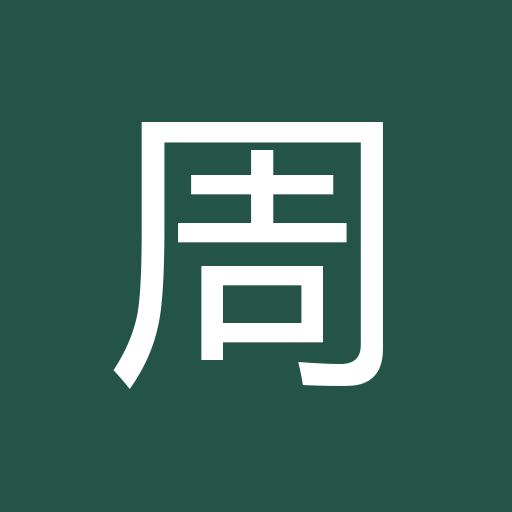
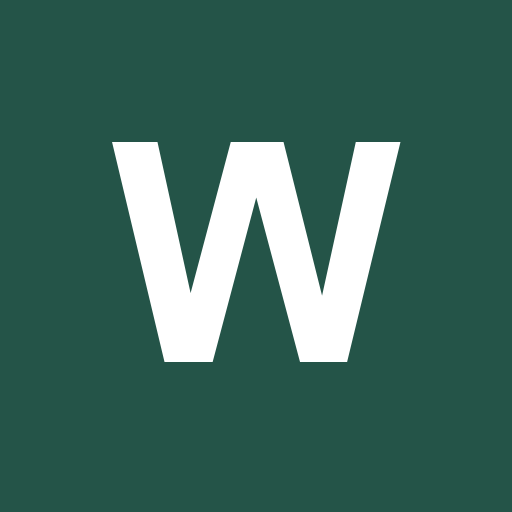
Configure Supabase project and rename app to Weekly Wallet

Changed region(s): [[0.2188, 0.2188, 0.7812, 0.7812]]

diff --git a/finance/index.html b/finance/index.html
@@ -1,3 +1,3 @@
-<!doctype html><html lang="zh-CN"><head><meta charset="utf-8"><meta name="viewport" content="width=device-width,initial-scale=1,viewport-fit=cover"><meta name="theme-color" content="#245448"><meta name="apple-mobile-web-app-capable" content="yes"><meta name="apple-mobile-web-app-title" content="周见"><title>周见 · 云端个人财务账本</title><link rel="stylesheet" href="./style.css"><link rel="manifest" href="./manifest.json"><link rel="icon" href="./icon.svg"><link rel="apple-touch-icon" href="./apple-touch-icon.png"></head><body><section id="auth-panel"><div class="auth-card"><span class="brand-icon">周</span><h1>周见 · 云端账本</h1><p>每天一笔，每周一见。<br>在手机与电脑登录同一邮箱，共享你的账本。</p><form id="login-form"><label>登录邮箱<input id="email" type="email" autocomplete="email" placeholder="你的邮箱" required></label><button class="btn primary" id="send-link" type="submit">发送登录链接</button></form><p id="auth-notice" role="status" aria-live="polite">使用你在数据库中添加的个人账号登录。</p><a href="/">← 返回博客</a></div></section><div id="wallet-root" hidden><aside class="sidebar"><a class="brand" href="#"><span class="brand-icon">周</span><span>周见<small>WEEKLY WALLET</small></span></a><p class="nav-label">我的财务空间</p><nav><button class="nav active" data-view="report"><span>▦</span> 每周报表</button><button class="nav" data-view="records"><span>≡</span> 收支明细</button><button class="nav" data-view="settings"><span>⚙</span> 偏好与备份</button></nav><div class="sidebar-note"><span>✳</span><h3>把日子记清楚</h3><p>每天一笔，每周一见。<br>让钱的去向，成为生活的方向。</p></div><div class="profile"><span class="avatar">我</span><div>个人账本<small>人民币 · 云端账本</small></div><span class="status-dot"></span></div></aside>
-<main><header><div class="breadcrumb">我的账本 <span>/</span> <b id="crumb">每周报表</b></div><div class="header-right"><span class="save-state">● 正在连接云端</span><button class="btn primary" id="add">＋ 记一笔</button></div></header><div class="content"><section class="heading"><div><div class="eyebrow">A LITTLE CLARITY, EVERY WEEK</div><h1 id="page-title">这一周，心中有数<span>✳</span></h1><p id="page-desc">用一份清晰的周报，看见收入、支出与生活的平衡。</p></div><button class="btn" id="export">↗ 导出周报</button></section><div class="demo-banner" id="sync-banner"><span id="sync-message">正在连接你的云端账本…</span><button id="login-again" hidden>重新登录</button><button id="sync-now">立即同步 ↻</button></div><div class="conflict-panel" id="conflict-panel" hidden><p id="conflict-message"></p><button class="btn" id="choose-cloud">采用云端版本</button><button class="btn primary" id="choose-local">保留此设备版本</button></div><section id="report-view"><div class="period-bar"><div class="week-switch"><button class="icon-btn" id="prev" aria-label="上一周">‹</button><strong id="week-label"></strong><button class="icon-btn" id="next" aria-label="下一周">›</button><button class="text-btn" id="this-week">本周</button></div><span id="week-no" class="muted"></span></div><div class="metrics"><article class="metric"><div>主动收入 <span class="metric-icon">↗</span></div><h2 id="active-total"></h2><p>工资、自由职业与劳动所得</p></article><article class="metric"><div>被动收入 <span class="metric-icon">✳</span></div><h2 id="passive-total"></h2><p>利息、分红与租金所得</p></article><article class="metric"><div>本周支出 <span class="metric-icon expense">↙</span></div><h2 id="expense-total"></h2><p id="expense-note"></p></article><article class="metric balance"><div>本周净结余 <span>↗</span></div><h2 id="balance-total"></h2><p id="balance-note"></p><div class="balance-pattern">◒</div></article></div><div class="charts"><article class="panel trend"><div class="panel-head"><div><h3>每天的收支节奏</h3><p>一周七天，收入与支出一目了然</p></div><div class="legend"><span class="active-key">主动</span><span class="passive-key">被动</span><span class="expense-key">支出</span></div></div><div id="chart" class="chart"></div></article><article class="panel categories"><div class="panel-head"><div><h3>钱都花在哪里</h3><p>本周支出构成</p></div><span>◴</span></div><div id="donut-area"></div><div id="category-list"></div></article></div><div class="insight"><span>✦</span><div><b>本周小结</b><p id="insight"></p></div><div class="budget-box"><small>周预算使用</small><strong id="budget-number"></strong><div class="budget-track"><i id="budget-fill"></i></div></div></div></section><section id="records-section" class="panel records"><div class="panel-head"><div><h3 id="records-title">本周收支明细 <span id="record-count"></span></h3><p>每一笔，都有迹可循</p></div><div class="filters"><input id="search" placeholder="搜索分类或备注" aria-label="搜索分类或备注"><select id="filter" aria-label="收支类型"><option value="all">全部类型</option><option value="active">主动收入</option><option value="passive">被动收入</option><option value="expense">支出</option></select></div></div><div class="table-wrap"><table><thead><tr><th>日期</th><th>分类 / 备注</th><th>类型</th><th>账户</th><th class="number">金额</th><th></th></tr></thead><tbody id="rows"></tbody></table></div><div class="table-footer"><span>金额以人民币（CNY）计</span><span id="filtered-count"></span></div></section><section id="settings-view" class="panel settings" hidden><h3>让账本适合你</h3><p>登录同一账号，手机与电脑共享一份账本。记录保存到云端数据库，本机保留待同步记录。</p><label>每周支出预算（元）<input id="budget-input" type="number" min="0" step="0.01"></label><button class="btn primary" id="save-budget">保存预算</button><hr><h3>数据备份</h3><p>JSON 备份可导入原型中的旧记录；导入将追加新记录，已有相同编号的记录会跳过。CSV 周报可在表格软件中整理。</p><div class="backup-actions"><button class="btn" id="backup">导出完整备份</button><button class="btn" id="import">导入备份</button><input id="import-file" type="file" accept="application/json,.json" hidden></div><hr><h3>在 iPhone 上使用</h3><p>在 Safari 中打开网站，点击“分享”，选择“添加到主屏幕”，即可像应用一样打开。登录同一账号即可同步。网络断开时，已打开的页面可继续记账，恢复网络后自动上传。</p><hr><button class="text-btn" id="sign-out">退出登录</button></section><footer>周见 <span>·</span> 好好记账，好好生活。<span class="footer-right">周一开始 · 自然周报表</span></footer></div></main>
+<!doctype html><html lang="zh-CN"><head><meta charset="utf-8"><meta name="viewport" content="width=device-width,initial-scale=1,viewport-fit=cover"><meta name="theme-color" content="#245448"><meta name="apple-mobile-web-app-capable" content="yes"><meta name="apple-mobile-web-app-title" content="Weekly Wallet"><title>Weekly Wallet · 云端个人财务账本</title><link rel="stylesheet" href="./style.css"><link rel="manifest" href="./manifest.json"><link rel="icon" href="./icon.svg"><link rel="apple-touch-icon" href="./apple-touch-icon.png"></head><body><section id="auth-panel"><div class="auth-card"><span class="brand-icon">W</span><h1>Weekly Wallet · 云端账本</h1><p>每天一笔，每周一见。<br>在手机与电脑登录同一邮箱，共享你的账本。</p><form id="login-form"><label>登录邮箱<input id="email" type="email" autocomplete="email" placeholder="你的邮箱" required></label><button class="btn primary" id="send-link" type="submit">发送登录链接</button></form><p id="auth-notice" role="status" aria-live="polite">使用你在数据库中添加的个人账号登录。</p><a href="/">← 返回博客</a></div></section><div id="wallet-root" hidden><aside class="sidebar"><a class="brand" href="#"><span class="brand-icon">W</span><span>Weekly Wallet<small>WEEKLY WALLET</small></span></a><p class="nav-label">我的财务空间</p><nav><button class="nav active" data-view="report"><span>▦</span> 每周报表</button><button class="nav" data-view="records"><span>≡</span> 收支明细</button><button class="nav" data-view="settings"><span>⚙</span> 偏好与备份</button></nav><div class="sidebar-note"><span>✳</span><h3>把日子记清楚</h3><p>每天一笔，每周一见。<br>让钱的去向，成为生活的方向。</p></div><div class="profile"><span class="avatar">我</span><div>个人账本<small>人民币 · 云端账本</small></div><span class="status-dot"></span></div></aside>
+<main><header><div class="breadcrumb">我的账本 <span>/</span> <b id="crumb">每周报表</b></div><div class="header-right"><span class="save-state">● 正在连接云端</span><button class="btn primary" id="add">＋ 记一笔</button></div></header><div class="content"><section class="heading"><div><div class="eyebrow">A LITTLE CLARITY, EVERY WEEK</div><h1 id="page-title">这一周，心中有数<span>✳</span></h1><p id="page-desc">用一份清晰的周报，看见收入、支出与生活的平衡。</p></div><button class="btn" id="export">↗ 导出周报</button></section><div class="demo-banner" id="sync-banner"><span id="sync-message">正在连接你的云端账本…</span><button id="login-again" hidden>重新登录</button><button id="sync-now">立即同步 ↻</button></div><div class="conflict-panel" id="conflict-panel" hidden><p id="conflict-message"></p><button class="btn" id="choose-cloud">采用云端版本</button><button class="btn primary" id="choose-local">保留此设备版本</button></div><section id="report-view"><div class="period-bar"><div class="week-switch"><button class="icon-btn" id="prev" aria-label="上一周">‹</button><strong id="week-label"></strong><button class="icon-btn" id="next" aria-label="下一周">›</button><button class="text-btn" id="this-week">本周</button></div><span id="week-no" class="muted"></span></div><div class="metrics"><article class="metric"><div>主动收入 <span class="metric-icon">↗</span></div><h2 id="active-total"></h2><p>工资、自由职业与劳动所得</p></article><article class="metric"><div>被动收入 <span class="metric-icon">✳</span></div><h2 id="passive-total"></h2><p>利息、分红与租金所得</p></article><article class="metric"><div>本周支出 <span class="metric-icon expense">↙</span></div><h2 id="expense-total"></h2><p id="expense-note"></p></article><article class="metric balance"><div>本周净结余 <span>↗</span></div><h2 id="balance-total"></h2><p id="balance-note"></p><div class="balance-pattern">◒</div></article></div><div class="charts"><article class="panel trend"><div class="panel-head"><div><h3>每天的收支节奏</h3><p>一周七天，收入与支出一目了然</p></div><div class="legend"><span class="active-key">主动</span><span class="passive-key">被动</span><span class="expense-key">支出</span></div></div><div id="chart" class="chart"></div></article><article class="panel categories"><div class="panel-head"><div><h3>钱都花在哪里</h3><p>本周支出构成</p></div><span>◴</span></div><div id="donut-area"></div><div id="category-list"></div></article></div><div class="insight"><span>✦</span><div><b>本周小结</b><p id="insight"></p></div><div class="budget-box"><small>周预算使用</small><strong id="budget-number"></strong><div class="budget-track"><i id="budget-fill"></i></div></div></div></section><section id="records-section" class="panel records"><div class="panel-head"><div><h3 id="records-title">本周收支明细 <span id="record-count"></span></h3><p>每一笔，都有迹可循</p></div><div class="filters"><input id="search" placeholder="搜索分类或备注" aria-label="搜索分类或备注"><select id="filter" aria-label="收支类型"><option value="all">全部类型</option><option value="active">主动收入</option><option value="passive">被动收入</option><option value="expense">支出</option></select></div></div><div class="table-wrap"><table><thead><tr><th>日期</th><th>分类 / 备注</th><th>类型</th><th>账户</th><th class="number">金额</th><th></th></tr></thead><tbody id="rows"></tbody></table></div><div class="table-footer"><span>金额以人民币（CNY）计</span><span id="filtered-count"></span></div></section><section id="settings-view" class="panel settings" hidden><h3>让账本适合你</h3><p>登录同一账号，手机与电脑共享一份账本。记录保存到云端数据库，本机保留待同步记录。</p><label>每周支出预算（元）<input id="budget-input" type="number" min="0" step="0.01"></label><button class="btn primary" id="save-budget">保存预算</button><hr><h3>数据备份</h3><p>JSON 备份可导入原型中的旧记录；导入将追加新记录，已有相同编号的记录会跳过。CSV 周报可在表格软件中整理。</p><div class="backup-actions"><button class="btn" id="backup">导出完整备份</button><button class="btn" id="import">导入备份</button><input id="import-file" type="file" accept="application/json,.json" hidden></div><hr><h3>在 iPhone 上使用</h3><p>在 Safari 中打开网站，点击“分享”，选择“添加到主屏幕”，即可像应用一样打开。登录同一账号即可同步。网络断开时，已打开的页面可继续记账，恢复网络后自动上传。</p><hr><button class="text-btn" id="sign-out">退出登录</button></section><footer>Weekly Wallet <span>·</span> 好好记账，好好生活。<span class="footer-right">周一开始 · 自然周报表</span></footer></div></main>
 <dialog id="entry-dialog"><form id="entry-form"><div class="modal-head"><div><small>让每一笔都有着落</small><h2 id="modal-title">记一笔</h2></div><button type="button" id="close-modal" class="icon-btn" aria-label="关闭">×</button></div><input type="hidden" id="entry-id"><div class="type-tabs"><button type="button" data-type="expense" class="selected">支出</button><button type="button" data-type="active">主动收入</button><button type="button" data-type="passive">被动收入</button></div><label>金额（元）<input id="amount" class="amount-input" type="number" min="0.01" max="999999999" step="0.01" placeholder="0.00" required></label><div class="form-grid"><label>日期<input id="date" type="date" required></label><label>分类<select id="category"></select></label></div><label>账户<select id="account"><option>微信钱包</option><option>支付宝</option><option>银行卡</option><option>现金</option><option>其他</option></select></label><label>备注<input id="note" maxlength="120" placeholder="这笔钱的故事（选填）"></label><button class="btn primary submit" type="submit">保存这笔记录</button><p class="form-note">联网时自动存入数据库 · 断网记录等待同步</p></form></dialog><div id="toast" role="status" aria-live="polite"></div></div><script src="./config.js"></script><script src="https://cdn.jsdelivr.net/npm/@supabase/supabase-js@2/dist/umd/supabase.js"></script><script src="./auth.js"></script></body></html>

diff --git a/finance/wallet.js b/finance/wallet.js
@@ -53,10 +53,10 @@ document.querySelectorAll('.nav').forEach(b=>b.onclick=()=>setView(b.dataset.vie
 $('entry-form').onsubmit=async e=>{e.preventDefault();const cents=Math.round(Number($('amount').value)*100),date=$('date').value;if(!Number.isSafeInteger(cents)||cents<=0||cents>99999999900||!/^\d{4}-\d{2}-\d{2}$/.test(date)||dateStr(parseDate(date))!==date||date<'1900-01-01'||date>'2200-12-31'){toast('请填写有效的金额和日期');return}const id=$('entry-id').value||crypto.randomUUID(),record={id,date,type:entryType,cents,category:$('category').value,account:$('account').value,note:$('note').value.trim()},base=state.records.find(r=>r.id===id)||null;const button=$('entry-form').querySelector('[type=submit]');button.disabled=true;try{if(await enqueue({id:crypto.randomUUID(),kind:'upsert',record,base})){week=monday(date);$('entry-dialog').close();project();if(pending.length)toast('记录已保留在此设备，正在上传')}}finally{button.disabled=false}};
 $('rows').onclick=async e=>{const edit=e.target.dataset.edit,del=e.target.dataset.delete;if(edit)openEntry(edit);if(del&&confirm('删除这笔记录？删除将同步到其他设备。')){const base=state.records.find(r=>r.id===del);if(base)await enqueue({id:crypto.randomUUID(),kind:'delete',recordId:del,base})}};
 $('save-budget').onclick=async()=>{const n=Number($('budget-input').value);if(!Number.isFinite(n)||n<0||n>999999999){toast('请输入有效预算');return}await enqueue({id:crypto.randomUUID(),kind:'budget',budget:Math.round(n*100),baseBudget:state.budget})};
-$('export').onclick=()=>{const rs=weekRecords().sort((a,b)=>a.date.localeCompare(b.date)),t=totals(rs);const cell=s=>'"'+String(s).replaceAll('"','""')+'"';const rows=[['周见个人财务周报',week+' 至 '+shift(week,6)],['主动收入',fmt(t.active)],['被动收入',fmt(t.passive)],['总收入',fmt(t.active+t.passive)],['总支出',fmt(t.expense)],['净结余',fmt(t.active+t.passive-t.expense)],['待同步变更数',pending.length],[],['日期','类型','分类','账户','金额(元)','备注'],...rs.map(r=>[r.date,types[r.type],r.category,r.account,(r.type==='expense'?-r.cents:r.cents)/100,r.note])];download('\ufeff'+rows.map(r=>r.map(s=>cell(typeof s==='string'&&/^[=+@\-]/.test(s)?"'"+s:s)).join(',')).join('\r\n'),`周见周报_${week}.csv`,'text/csv;charset=utf-8');toast('周报已导出')};
-$('backup').onclick=()=>download(JSON.stringify({...state,version:1,pendingChanges:pending.length},null,2),'周见备份_'+today()+'.json','application/json');$('import').onclick=()=>$('import-file').click();
+$('export').onclick=()=>{const rs=weekRecords().sort((a,b)=>a.date.localeCompare(b.date)),t=totals(rs);const cell=s=>'"'+String(s).replaceAll('"','""')+'"';const rows=[['Weekly Wallet个人财务周报',week+' 至 '+shift(week,6)],['主动收入',fmt(t.active)],['被动收入',fmt(t.passive)],['总收入',fmt(t.active+t.passive)],['总支出',fmt(t.expense)],['净结余',fmt(t.active+t.passive-t.expense)],['待同步变更数',pending.length],[],['日期','类型','分类','账户','金额(元)','备注'],...rs.map(r=>[r.date,types[r.type],r.category,r.account,(r.type==='expense'?-r.cents:r.cents)/100,r.note])];download('\ufeff'+rows.map(r=>r.map(s=>cell(typeof s==='string'&&/^[=+@\-]/.test(s)?"'"+s:s)).join(',')).join('\r\n'),`Weekly Wallet周报_${week}.csv`,'text/csv;charset=utf-8');toast('周报已导出')};
+$('backup').onclick=()=>download(JSON.stringify({...state,version:1,pendingChanges:pending.length},null,2),'Weekly Wallet备份_'+today()+'.json','application/json');$('import').onclick=()=>$('import-file').click();
 function validBackup(d){return d&&d.version===1&&Number.isSafeInteger(d.budget)&&d.budget>=0&&d.budget<=99999999900&&Array.isArray(d.records)&&d.records.length<=10000&&new Set(d.records.map(r=>r.id)).size===d.records.length&&d.records.every(r=>r&&typeof r.id==='string'&&/^[\w-]{1,100}$/.test(r.id)&&/^\d{4}-\d{2}-\d{2}$/.test(r.date)&&dateStr(parseDate(r.date))===r.date&&r.date>='1900-01-01'&&r.date<='2200-12-31'&&Object.hasOwn(types,r.type)&&Number.isSafeInteger(r.cents)&&r.cents>0&&r.cents<=99999999900&&cats[r.type].includes(r.category)&&['微信钱包','支付宝','银行卡','现金','其他'].includes(r.account)&&typeof r.note==='string'&&r.note.length<=120)}
-$('import-file').onchange=async e=>{const file=e.target.files[0];if(!file)return;if(!ready){toast('请等待账本加载完成');e.target.value='';return}try{if(file.size>10000000)throw Error();const data=JSON.parse(await file.text());if(!validBackup(data))throw Error();const exists=new Set(state.records.map(r=>r.id)),newRecords=data.records.filter(r=>!exists.has(r.id));if(!newRecords.length){toast('没有需要导入的新记录');return}if(confirm(`追加 ${newRecords.length} 笔记录到云端账本？${data.demo?' 此备份包含示例数据。':''}已有记录不会被覆盖。`)){const ops=newRecords.map(record=>({id:crypto.randomUUID(),kind:'upsert',record,base:null}));if(localDb){const tx=localDb.transaction('queue','readwrite'),store=tx.objectStore('queue');for(const operation of ops)store.put({key:userId+':'+operation.id,userId,sequence:Date.now()*1000+(sequence++%1000),operation});await complete(tx)}else pending.push(...ops);await loadLocal();project();toast('记录已加入同步队列');void sync()}}catch{toast('文件格式无效，请选择周见导出的 JSON 备份（最多一万笔）')}finally{e.target.value=''}};
+$('import-file').onchange=async e=>{const file=e.target.files[0];if(!file)return;if(!ready){toast('请等待账本加载完成');e.target.value='';return}try{if(file.size>10000000)throw Error();const data=JSON.parse(await file.text());if(!validBackup(data))throw Error();const exists=new Set(state.records.map(r=>r.id)),newRecords=data.records.filter(r=>!exists.has(r.id));if(!newRecords.length){toast('没有需要导入的新记录');return}if(confirm(`追加 ${newRecords.length} 笔记录到云端账本？${data.demo?' 此备份包含示例数据。':''}已有记录不会被覆盖。`)){const ops=newRecords.map(record=>({id:crypto.randomUUID(),kind:'upsert',record,base:null}));if(localDb){const tx=localDb.transaction('queue','readwrite'),store=tx.objectStore('queue');for(const operation of ops)store.put({key:userId+':'+operation.id,userId,sequence:Date.now()*1000+(sequence++%1000),operation});await complete(tx)}else pending.push(...ops);await loadLocal();project();toast('记录已加入同步队列');void sync()}}catch{toast('文件格式无效，请选择Weekly Wallet导出的 JSON 备份（最多一万笔）')}finally{e.target.value=''}};
 $('choose-cloud').onclick=async()=>{if(!conflict)return;const target=conflict.op.record?.id||conflict.op.recordId;for(const op of [...pending])if(conflict.op.kind==='budget'?op.kind==='budget':(op.record?.id||op.recordId)===target)await removePending(op.id);conflict=null;await loadLocal();project();void sync()};
 $('choose-local').onclick=async()=>{if(!conflict)return;if(!confirm('将此设备的这笔变更覆盖到云端，确定继续？'))return;const op={...conflict.op};if(op.kind==='budget')op.baseBudget=cloud.budget;else {op.base=cloud.records.find(r=>r.id===(op.record?.id||op.recordId))||null;if(op.kind==='delete'&&!op.base){await removePending(op.id);conflict=null;await loadLocal();project();void sync();return}}await putPending(op);conflict=null;await loadLocal();project();void sync()};
 window.addEventListener('online',()=>void sync());window.addEventListener('focus',()=>void sync());document.addEventListener('visibilitychange',()=>{if(document.visibilityState==='visible')void sync()});window.addEventListener('beforeunload',e=>{if(pending.length&&!durable){e.preventDefault();e.returnValue=''}});setInterval(()=>{if(document.visibilityState==='visible')void sync()},30000);

diff --git a/finance/config.js b/finance/config.js
@@ -1,5 +1,5 @@
 // Only public connection values belong here. Never use a secret/service_role key.
 window.ZHOUJIAN_CONFIG = {
-  supabaseUrl: '',
-  publishableKey: ''
+  "supabaseUrl": "https://scaccfuchbjbnqnrlcub.supabase.co",
+  "publishableKey": "sb_publishable_pJYSEEPT1Kj326j_3T2MmA_GMNyEO1T"
 };

diff --git a/database/README.md b/database/README.md
@@ -1,17 +1,17 @@
-# 周见数据库接入
+# Weekly Wallet数据库接入
 
 当前目录为数据库迁移，不是网页文件。只在你自己的 Supabase 项目的 SQL Editor 中执行 `001_zhoujian.sql`。创建用户账本表、按账号读取策略及事务性写入函数；匿名用户不能读取账目，登录用户只能读取自己的账目，写入函数使用登录身份并校验输入。
 
 上线步骤：
 
-1. 在 https://supabase.com/dashboard 注册并创建一个项目，保存数据库密码，不要把密码写入网站。
+1. 打开已有项目 https://supabase.com/dashboard/project/scaccfuchbjbnqnrlcub 。
 2. 在项目的 SQL Editor 执行同目录的 `001_zhoujian.sql`。首次运行前检查脚本，使用新项目可避免与已有表冲突。
 3. 在 Authentication 的用户列表中创建你自己的登录用户；当前应用仅向已有用户发送登录邮件，不开放自助注册。无需把登录密码提供给网站作者。
 4. 在 Authentication 的 URL 配置中将 Site URL 设置为 `https://wegius1031.github.io/finance/`，并把该网址加入允许的 Redirect URLs。
-5. 找到 Project URL 和公开的 Publishable key（旧项目可使用 anon key），填入 `finance/config.js`。不要使用 `sb_secret_`、`service_role` 或数据库密码。
+5. `finance/config.js` 已填入你提供的 Project URL 和公开 Publishable key。不要使用 `sb_secret_`、`service_role` 或数据库密码。
 6. 合并网站代码，让 GitHub Pages 发布 `/finance/` 目录。
 7. 用手机打开页面，输入自己的邮箱，打开同一设备上收到的登录链接。创建一笔测试记录，再用电脑登录同一邮箱验证同步。
 
-目前 config.js 没有配置真实项目，页面会显示未配置提示并禁用登录。SQL 脚本未在真实 Supabase 数据库中运行；接入后仍需验证数据库权限、跨设备读写、冲突处理及手机浏览器行为。
+Project URL 和公开密钥已配置。2026-10-09 的真实接口检查返回 PGRST205：schema cache 中尚无 zhoujian_ledgers 表。SQL 尚待在控制台执行，随后需验证数据库权限、跨设备读写、冲突处理及手机浏览器行为。
 
 此仓库是 Hexo 生成后的静态产物。如果以后在本机执行 Hexo 完整重新生成/部署，请把 finance 目录保存在你的 Hexo 源项目 source/finance 中并设置复制策略，避免重新部署时丢失独立页面。
